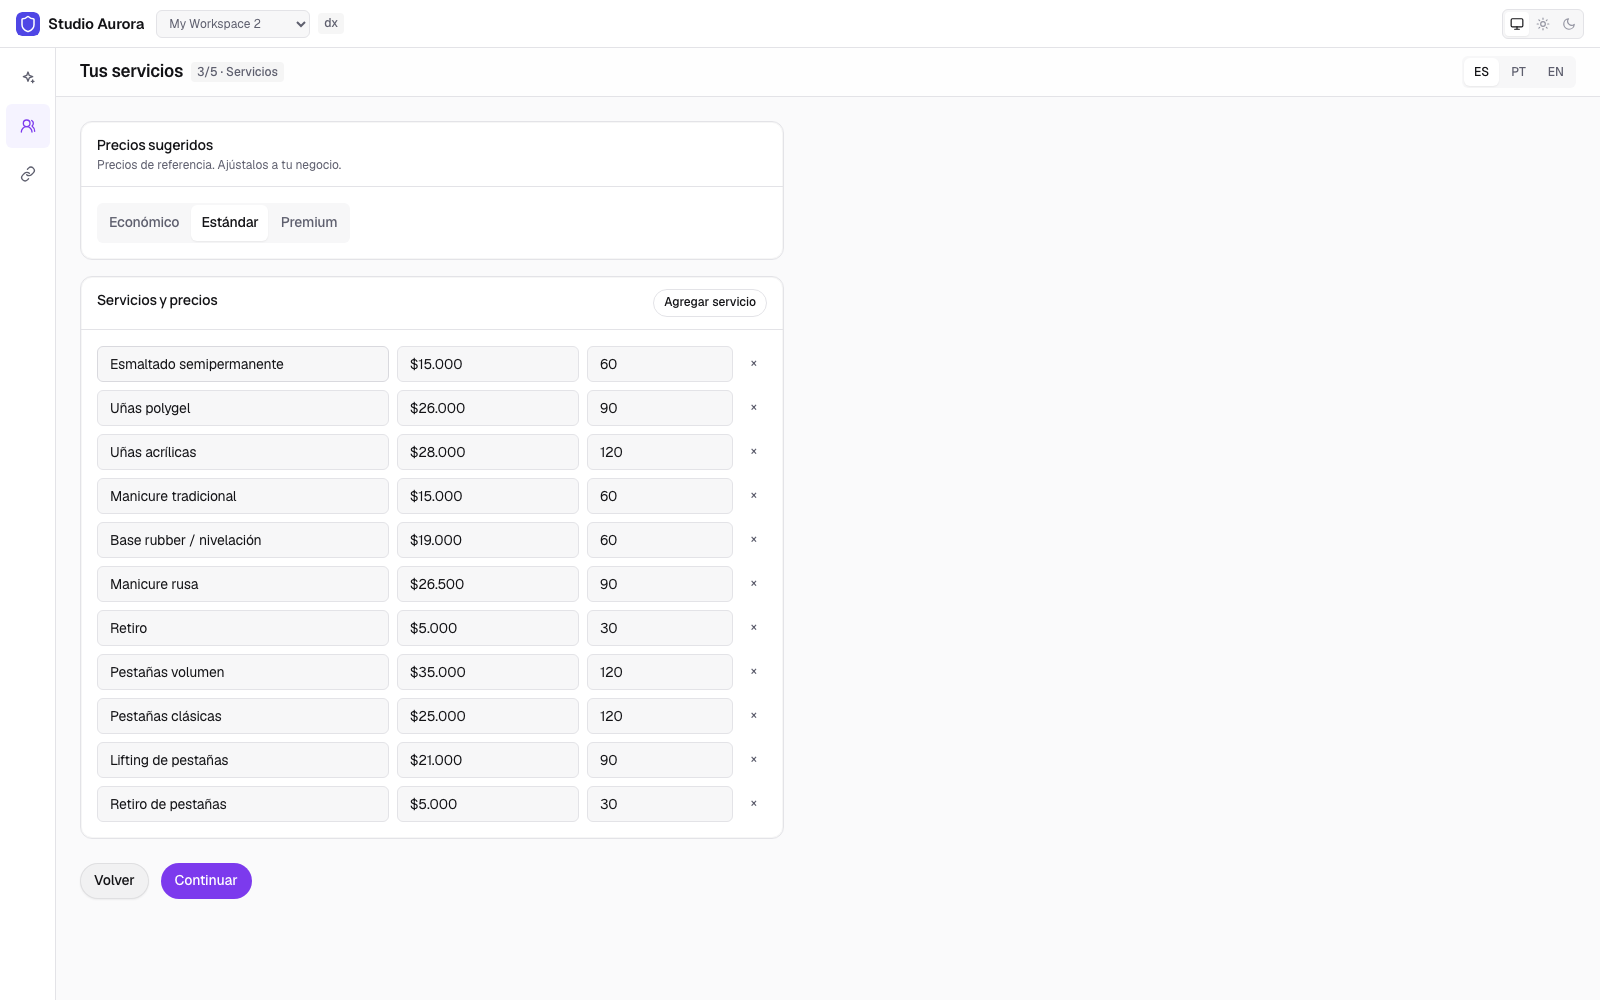
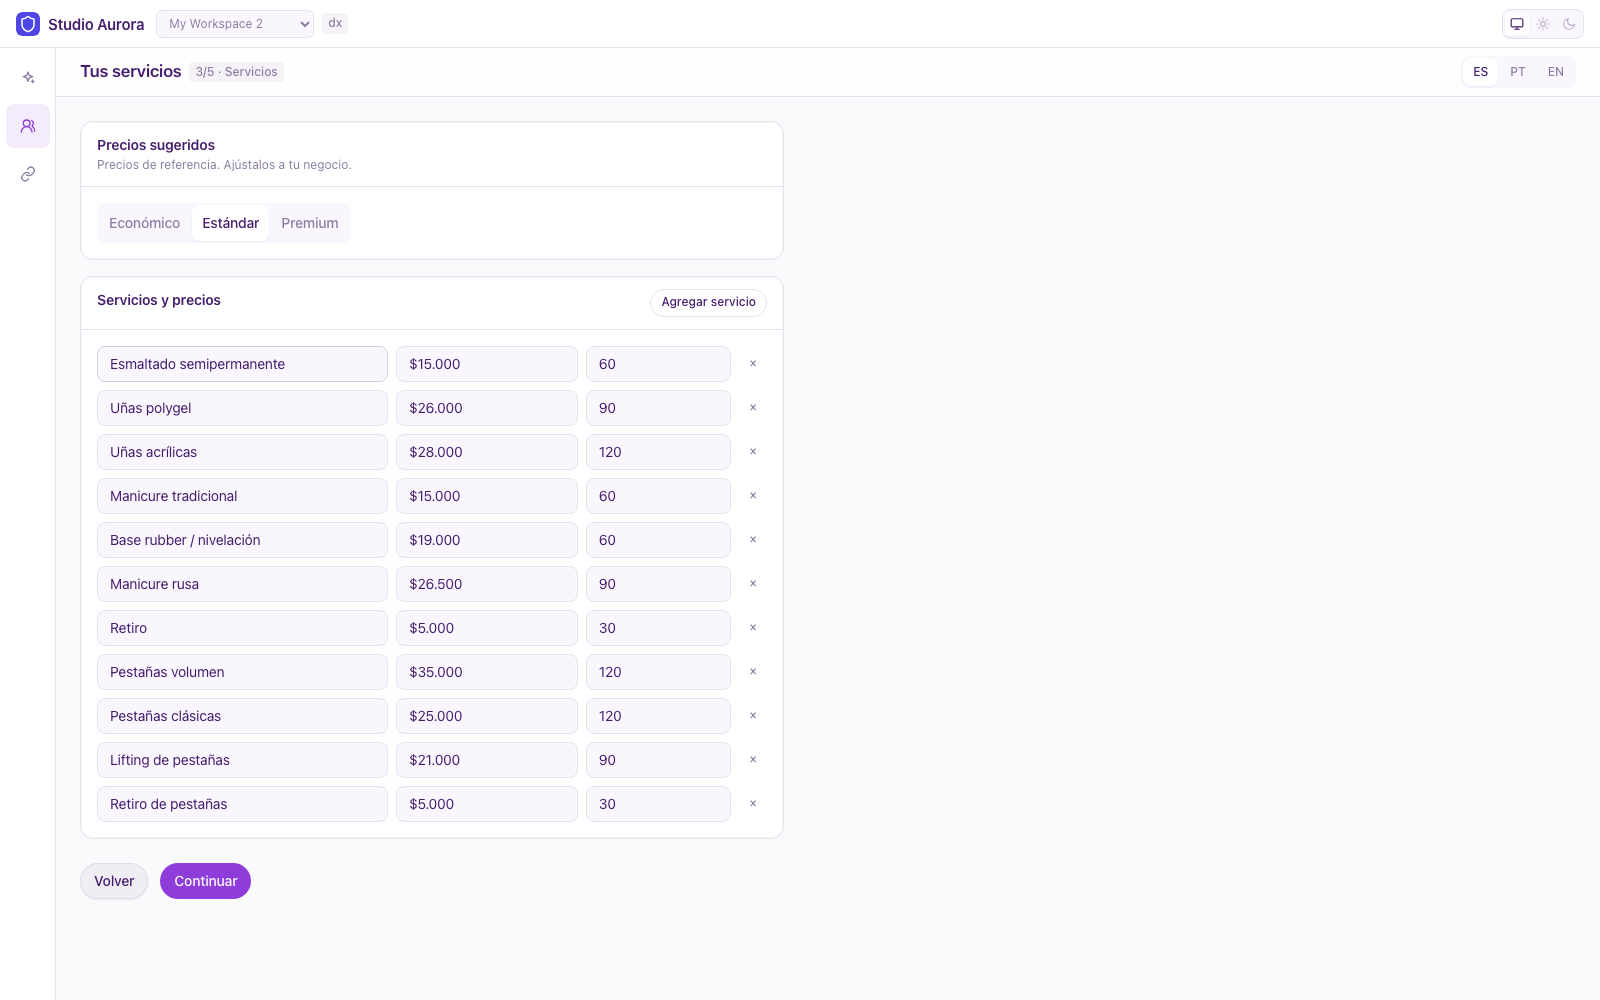
ownyourproduct: salon theme, inbox, theme and deploy steps in the playbook
The overlay ships src/theme/salon.css: the product's palette over the
toolkit's tokens, light and dark, imported by playbook step 1. The preset
installs livechat (the inbox). The playbook ends with putting the app
online through the wizard's Vercel script. Screenshots re-shot with the
theme on.

diff --git a/apps/ownyourproduct/overlay/src/theme/salon.css b/apps/ownyourproduct/overlay/src/theme/salon.css
@@ -1,0 +1,166 @@
+/*
+ * OwnYourProduct salon theme — the product's palette over the toolkit's tokens.
+ *
+ * The toolkit paints every screen from the custom properties in
+ * src/vendor/ui/styles/tokens.css; nothing in a component names a colour. This
+ * file only re-declares those properties, so the toolkit's screens and the
+ * overlay's take the same palette. src/index.css is wizard-owned: the playbook
+ * asks you to add `@import "./theme/salon.css";` there, as the last import.
+ *
+ * Palette: purple accent (#8e3cda) for actions and selection, coral (#f8747d)
+ * for "now" and focus, deep-purple text on soft purple surfaces, 8 px controls,
+ * the system font. Light and dark.
+ */
+
+:root,
+[data-theme='light'] {
+  --color-surface: #faf9fc;
+  --color-surface-raised: #ffffff;
+  --color-surface-sunken: #faf6fe;
+  --color-surface-hover: #f4ecfb;
+  --color-surface-overlay: #ffffff;
+  --color-surface-inverse: #461d6d;
+  --color-translucent: rgb(70 29 109 / 0.05);
+  --color-translucent-strong: rgb(70 29 109 / 0.08);
+
+  --color-border: #e7e1ee;
+  --color-border-strong: #d8cfe3;
+  --color-border-subtle: #f0ecf4;
+
+  --color-text: #461d6d;
+  --color-text-muted: #8b7ea3;
+  --color-text-faint: #b8aecb;
+  --color-text-inverse: #faf6fe;
+
+  --color-accent: #8e3cda;
+  --color-accent-hover: #7c34c2;
+  --color-accent-soft: #f4ecfb;
+  --color-accent-fg: #ffffff;
+  --color-focus: #f8747d;
+
+  --color-row-hover: #faf6fe;
+  --color-row-selected: #f4ecfb;
+  --color-row-selected-hover: #ecdff8;
+  --color-skeleton: #f0ecf4;
+  --color-skeleton-highlight: #faf6fe;
+
+  --color-selection-fill: rgb(142 60 218 / 0.1);
+  --color-selection-stroke: #8e3cda;
+  --color-edge-selected: #8e3cda;
+  --color-handle-active: #8e3cda;
+  --color-bubble-out: #8e3cda;
+  --color-bubble-out-fg: #f4ecfb;
+  --color-run-active: #8e3cda;
+  --color-run-active-soft: #f4ecfb;
+  --color-pipeline-1: #8e3cda;
+  --color-pipeline-6: #f8747d;
+  --color-now: #f8747d;
+  --color-guide: #f8747d;
+
+  --selection-bg: #ecdff8;
+  --elevation-tint: rgb(70 29 109 / 0.08);
+  --elevation-tint-strong: rgb(70 29 109 / 0.12);
+  --elevation-ring: rgb(70 29 109 / 0.06);
+  --hairline-inset: rgb(70 29 109 / 0.04);
+  --hairline-ring: rgb(70 29 109 / 0.08);
+
+  --radius-control: 0.5rem;
+  --font-sans: ui-sans-serif, system-ui, -apple-system, 'Segoe UI', Roboto, Helvetica, Arial, sans-serif;
+  --font-display: ui-sans-serif, system-ui, -apple-system, 'Segoe UI', Roboto, Helvetica, Arial, sans-serif;
+}
+
+/* Dark: the same purple, lifted for dark surfaces. Applies when the OS is dark
+   and no theme is pinned, and when the top-bar toggle pins dark. */
+@media (prefers-color-scheme: dark) {
+  :root:not([data-theme]) {
+    --color-surface: #15101c;
+    --color-surface-raised: #1c1526;
+    --color-surface-sunken: #120d19;
+    --color-surface-hover: #241a30;
+    --color-surface-overlay: #1c1526;
+    --color-surface-inverse: #faf6fe;
+    --color-translucent: rgb(243 236 250 / 0.05);
+    --color-translucent-strong: rgb(243 236 250 / 0.08);
+    --color-border: #2e2440;
+    --color-border-strong: #3a2d4e;
+    --color-border-subtle: #241a30;
+    --color-text: #f3ecfa;
+    --color-text-muted: #b8aecb;
+    --color-text-faint: #8b7ea3;
+    --color-text-inverse: #15101c;
+    --color-accent: #a866ea;
+    --color-accent-hover: #b77cf0;
+    --color-accent-soft: #2a1d3d;
+    --color-accent-fg: #ffffff;
+    --color-focus: #f8747d;
+    --color-row-hover: #1c1526;
+    --color-row-selected: #2a1d3d;
+    --color-row-selected-hover: #33244a;
+    --color-skeleton: #241a30;
+    --color-skeleton-highlight: #2e2440;
+    --color-selection-fill: rgb(168 102 234 / 0.18);
+    --color-selection-stroke: #a866ea;
+    --color-edge-selected: #a866ea;
+    --color-handle-active: #a866ea;
+    --color-bubble-out: #8e3cda;
+    --color-bubble-out-fg: #f4ecfb;
+    --color-run-active: #a866ea;
+    --color-run-active-soft: #2a1d3d;
+    --color-pipeline-1: #a866ea;
+    --color-pipeline-6: #f8747d;
+    --color-now: #f8747d;
+    --color-guide: #f8747d;
+    --selection-bg: #3a2d4e;
+    --elevation-tint: rgb(0 0 0 / 0.35);
+    --elevation-tint-strong: rgb(0 0 0 / 0.5);
+    --elevation-ring: rgb(243 236 250 / 0.06);
+    --hairline-inset: rgb(243 236 250 / 0.04);
+    --hairline-ring: rgb(243 236 250 / 0.08);
+  }
+}
+
+[data-theme='dark'] {
+  --color-surface: #15101c;
+  --color-surface-raised: #1c1526;
+  --color-surface-sunken: #120d19;
+  --color-surface-hover: #241a30;
+  --color-surface-overlay: #1c1526;
+  --color-surface-inverse: #faf6fe;
+  --color-translucent: rgb(243 236 250 / 0.05);
+  --color-translucent-strong: rgb(243 236 250 / 0.08);
+  --color-border: #2e2440;
+  --color-border-strong: #3a2d4e;
+  --color-border-subtle: #241a30;
+  --color-text: #f3ecfa;
+  --color-text-muted: #b8aecb;
+  --color-text-faint: #8b7ea3;
+  --color-text-inverse: #15101c;
+  --color-accent: #a866ea;
+  --color-accent-hover: #b77cf0;
+  --color-accent-soft: #2a1d3d;
+  --color-accent-fg: #ffffff;
+  --color-focus: #f8747d;
+  --color-row-hover: #1c1526;
+  --color-row-selected: #2a1d3d;
+  --color-row-selected-hover: #33244a;
+  --color-skeleton: #241a30;
+  --color-skeleton-highlight: #2e2440;
+  --color-selection-fill: rgb(168 102 234 / 0.18);
+  --color-selection-stroke: #a866ea;
+  --color-edge-selected: #a866ea;
+  --color-handle-active: #a866ea;
+  --color-bubble-out: #8e3cda;
+  --color-bubble-out-fg: #f4ecfb;
+  --color-run-active: #a866ea;
+  --color-run-active-soft: #2a1d3d;
+  --color-pipeline-1: #a866ea;
+  --color-pipeline-6: #f8747d;
+  --color-now: #f8747d;
+  --color-guide: #f8747d;
+  --selection-bg: #3a2d4e;
+  --elevation-tint: rgb(0 0 0 / 0.35);
+  --elevation-tint-strong: rgb(0 0 0 / 0.5);
+  --elevation-ring: rgb(243 236 250 / 0.06);
+  --hairline-inset: rgb(243 236 250 / 0.04);
+  --hairline-ring: rgb(243 236 250 / 0.08);
+}

diff --git a/apps/ownyourproduct/playbook.md b/apps/ownyourproduct/playbook.md
@@ -24,7 +24,24 @@ in the switch before verifying.
 
 Work through the steps in order and verify each before the next.
 
-## 1. Register the Comment Studio and Set-up modules
+## 1. Theme and the inbox
+
+The overlay ships the salon theme in `src/theme/salon.css`: the product's
+palette (purple actions, coral for "now" and focus, deep-purple text on soft
+purple surfaces), 8 px controls and the system font, light and dark. Every
+screen, the toolkit's and the overlay's, paints from the same tokens, so this
+one file restyles the whole app. `src/index.css` is wizard-owned, so add the
+import there yourself: `@import "./theme/salon.css";` as the LAST import,
+after the `@chatfuel:end-ui-css` line.
+
+The inbox is the toolkit's own `livechat` module; the preset installs it and
+the overlay adds nothing to it.
+
+Verify: the primary button is purple (#8e3cda) and the calendar's "now" line
+coral; pinning dark in the top bar keeps a purple accent on dark surfaces;
+`/livechat` opens the inbox.
+
+## 2. Register the Comment Studio and Set-up modules
 
 The wizard generates `src/modules/index.ts` from the modules it installed, so
 the overlay could not add to it (wizard-owned). You can:
@@ -43,7 +60,7 @@ ES selected the screen renders "Tu negocio" with a "Continuar" button;
 `/comment-studio` renders the header "Comment Studio" with the status tag
 "Apagado" and the language switch ES / PT / EN.
 
-## 2. Run the modules' tests and the typecheck
+## 3. Run the modules' tests and the typecheck
 
 The overlay ships its own tests: Comment Studio's write plan, runner contract,
 read-back and generated texts; Set-up's publish plan, its idempotent runner
@@ -53,7 +70,7 @@ which the manifest declares and the wizard installs.
 Verify: `npx vitest run src/modules/comment-studio src/modules/salon-onboarding`
 reports every test passed, and `npm run check` is clean.
 
-## 3. Set a salon up with Set-up
+## 4. Set a salon up with Set-up
 
 Sign in and open `/salon-onboarding`. Enter the business (name, country,
 phone, address), pick the specialities, keep or edit the suggested services
@@ -67,7 +84,7 @@ hours and a cancellation rule in the additional instructions; Bookings settings
 show appointment confirmation switched on. Pressing "Guardar y empezar" again
 creates nothing twice.
 
-## 4. Team levels: apply the app migration and register Team
+## 5. Team levels: apply the app migration and register Team
 
 The overlay ships `supabase/app-migrations/0019_staff_access.sql`: two levels
 of staff access on the auth module's own tables. A Manager is an admin; a
@@ -87,7 +104,7 @@ can invite "ana@salon.cl" as a Specialist linked to a Bookings specialist and
 copy the invitation link, and the auth module's Team page still opens and
 still lists the same people.
 
-## 5. Specialists see only their own calendar
+## 6. Specialists see only their own calendar
 
 `cf_my_workspace` now returns `specialist_id` for a member. In the bookings
 module, when the signed-in membership carries a `specialist_id`, preselect
@@ -102,7 +119,7 @@ current specialist) differs from it.
 Verify: sign in as the invited specialist; the calendar opens on her column
 and the switcher is gone; a manager still sees every column.
 
-## 6. Connect Instagram and turn Comment Studio on
+## 7. Connect Instagram and turn Comment Studio on
 
 Sign in, connect the salon's Instagram account in Channels, enter two or
 three services with prices in the Knowledge Base, then open Comment Studio:
@@ -116,7 +133,7 @@ Direct, link-in-bio and story sources are off; back in Comment Studio the tag
 reads "Activo". Comment "precio?" on a post from another account: the public
 reply lands under the comment and the Direct arrives.
 
-## 7. Money: apply the app migration and register Money
+## 8. Money: apply the app migration and register Money
 
 The overlay ships `supabase/app-migrations/0030_money.sql`: two tables next
 to the auth schema, expenses and supply purchases, readable and writable by
@@ -133,7 +150,7 @@ the same month; an expense added on the "Gastos" tab lowers "Ganancia neta"
 by its amount and appears in the CSV download; a specialist signed in sees
 only the "managers only" notice.
 
-## 8. Mail: recovery through Supabase, invitations through Resend
+## 9. Mail: recovery through Supabase, invitations through Resend
 
 Sign-in, verification and recovery e-mails are the auth module's and come from
 Supabase Auth; point its SMTP at Resend in the Supabase dashboard (Auth →
@@ -152,15 +169,29 @@ Verify: `npx vitest run server/mail` passes; with the route mounted and the
 key set, an invitation from Team arrives in the mailbox with the salon's
 name and a link that opens the app's invite page.
 
-## 9. Sign-up lands in Set-up
+## 10. Sign-up lands in Set-up
 
 A new salon that signs up through the auth module gets its bot from the
-wizard's sign-up flow and is sent to `/`, which step 1 made Set-up. Keep it
+wizard's sign-up flow and is sent to `/`, which step 2 made Set-up. Keep it
 that way: the first minute must be "your services, your hours, done", not a
 tour of seven modules.
 
 Verify: sign up with a fresh e-mail; the first screen is Set-up on "Tu
 negocio".
+
+## 11. Put it online
+
+The wizard does not deploy. From the app directory run `npm run deploy`: it
+puts the app on Vercel through the Vercel CLI (a Vercel login is asked once,
+the free tier is enough, no Git repository needed) and prints the production
+URL. Then in Supabase, Authentication → URL configuration, add that origin to
+the redirect allowlist, or sign-in links keep pointing at localhost. If the
+Vercel team has Deployment Protection on, turn it off for this project or the
+salon's staff will meet a Vercel login wall.
+
+Verify: the production URL opens the sign-in screen; signing in lands on
+Set-up (or the calendar once the salon is set up); a booking made in the
+calendar shows up in the Chatfuel dashboard for the same bot.
 
 ## Out of scope
 

diff --git a/apps/ownyourproduct/README.md b/apps/ownyourproduct/README.md
@@ -6,13 +6,14 @@ A beauty salon's booking business under your own name: set-up in five steps, Ins
 npx @chatfuel/wizard --app ownyourproduct
 ```
 
-Modules: `bookings` (calendar, services, staff), `contacts`, `knowledge-base`, `automations`, `channels` (Instagram, WhatsApp, the web widget), `auth` (accounts) and `admin` — the four product screens ship in this app's overlay under `src/modules/`.
+Modules: `bookings` (calendar, services, staff), `contacts`, `knowledge-base`, `automations`, `livechat` (the inbox), `channels` (Instagram, WhatsApp, the web widget), `auth` (accounts) and `admin` — the four product screens ship in this app's overlay under `src/modules/`.
 
 - **Set-up** (`src/modules/salon-onboarding/`): business, specialities, services, hours and team in five steps, in Spanish, Portuguese or English. Services come pre-filled per speciality with prices anchored to the salon's country; publishing writes them into Bookings and the Knowledge Base, and running set-up again updates instead of duplicating.
 - **Comment Studio** (`src/modules/comment-studio/`): one keyword rule on Instagram post comments — a fixed public reply under the comment and a Direct quoting the prices from the Knowledge Base. No AI, no per-message cost; texts per language ready to edit.
 - **Team** (`src/modules/equipo/`): owner, manager and specialist levels on top of the auth module, invitations by e-mail, a specialist linked to her column in Bookings. Migration `supabase/app-migrations/0019_staff_access.sql`.
 - **Money** (`src/modules/money/`): revenue by service, specialist and client per period, next to expenses and supplies, with a CSV export — computed from the bookings themselves. Migration `supabase/app-migrations/0030_money.sql`.
 - **Mail** (`server/mail/`): the staff invitation e-mail, sent through Resend.
+- **Theme** (`src/theme/salon.css`): the product's palette over the toolkit's tokens, light and dark, one import line away (playbook step 1).
 - All strings live in each module's copy file (`screen-copy.ts`, `prepare-copy.ts`, `copy.ts`), never inline.
 
 Adds one npm dependency, `libphonenumber-js` (pure JS, no install scripts), to validate the salon's contact phone per country.

diff --git a/apps/ownyourproduct/listing.md b/apps/ownyourproduct/listing.md
@@ -1,6 +1,6 @@
 ## The salon's day, under your own name
 
-A nail or lash studio's Instagram fills with the same two questions under every post — how much, and when. This app is the business behind those questions: a booking calendar customers reach through the channels you connect, a client list, a knowledge base that holds your real prices, and a Comment Studio that answers price-and-time comments with a fixed public reply and a Direct quoting those prices — in Spanish, Portuguese or English.
+A nail or lash studio's Instagram fills with the same two questions under every post — how much, and when. This app is the business behind those questions: a booking calendar customers reach through the channels you connect, a client list, an inbox, a knowledge base that holds your real prices, and a Comment Studio that answers price-and-time comments with a fixed public reply and a Direct quoting those prices — in Spanish, Portuguese or English.
 
 ## Set up in five steps
 
